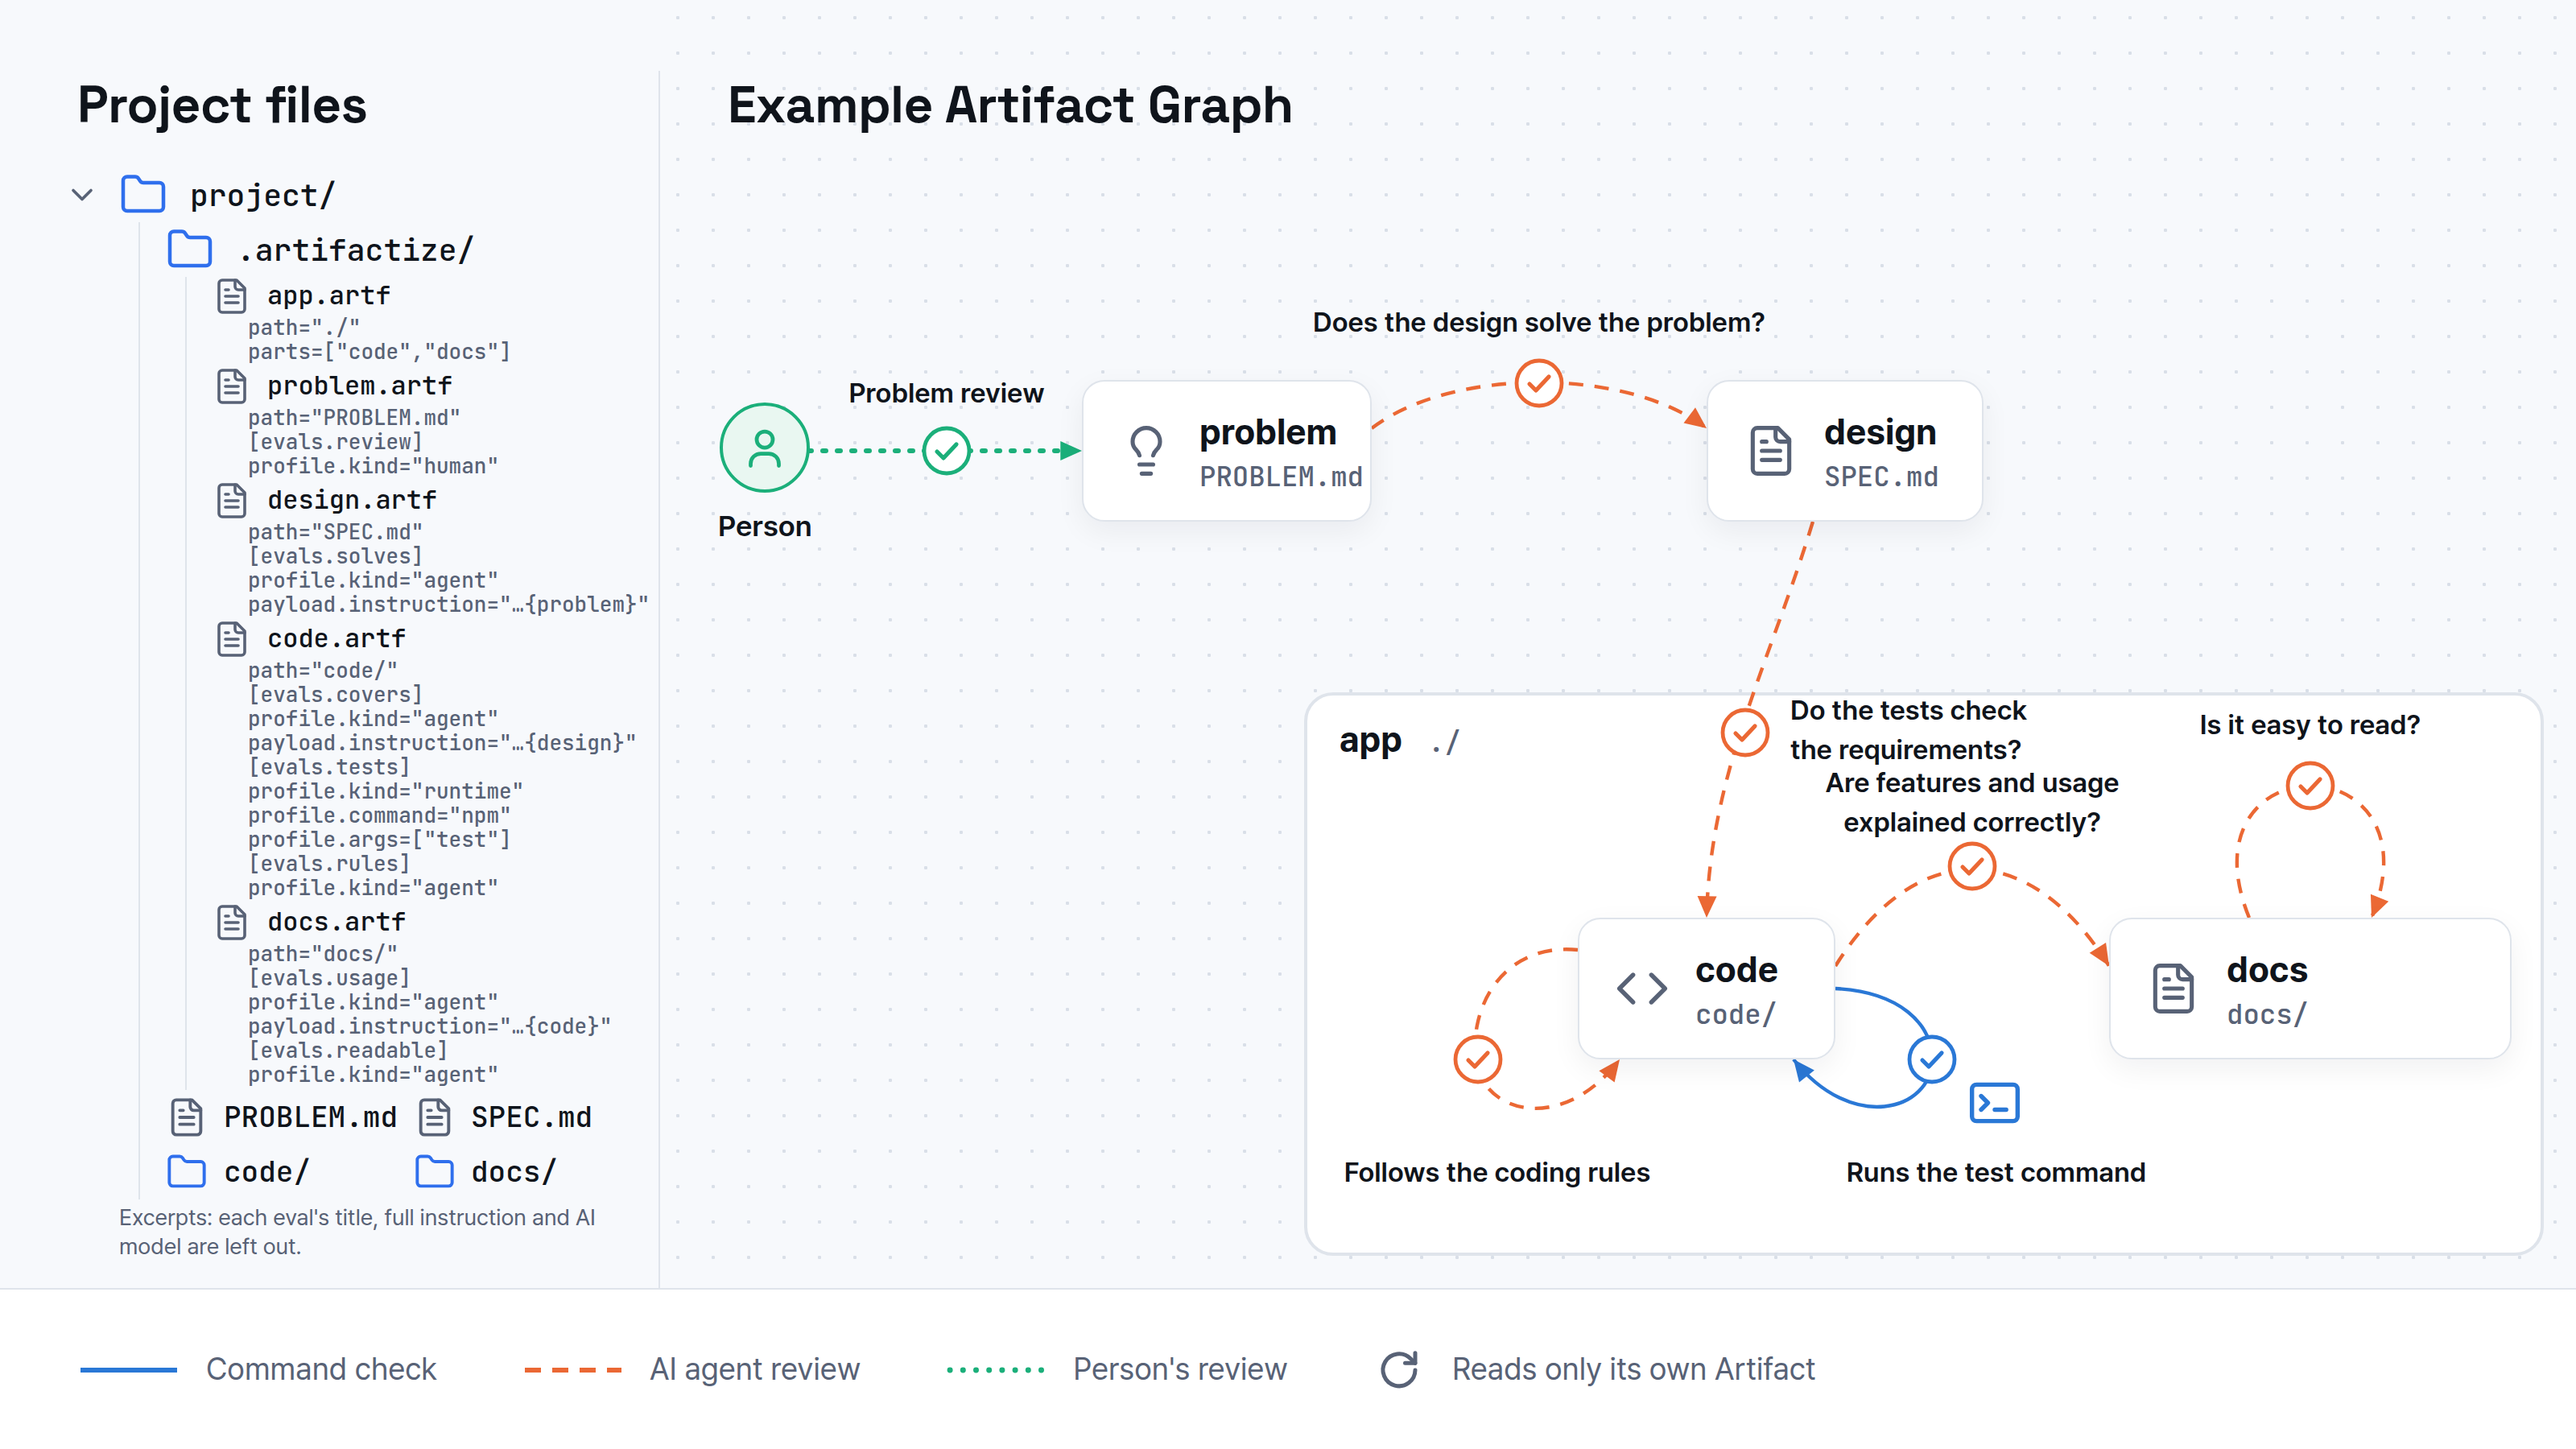
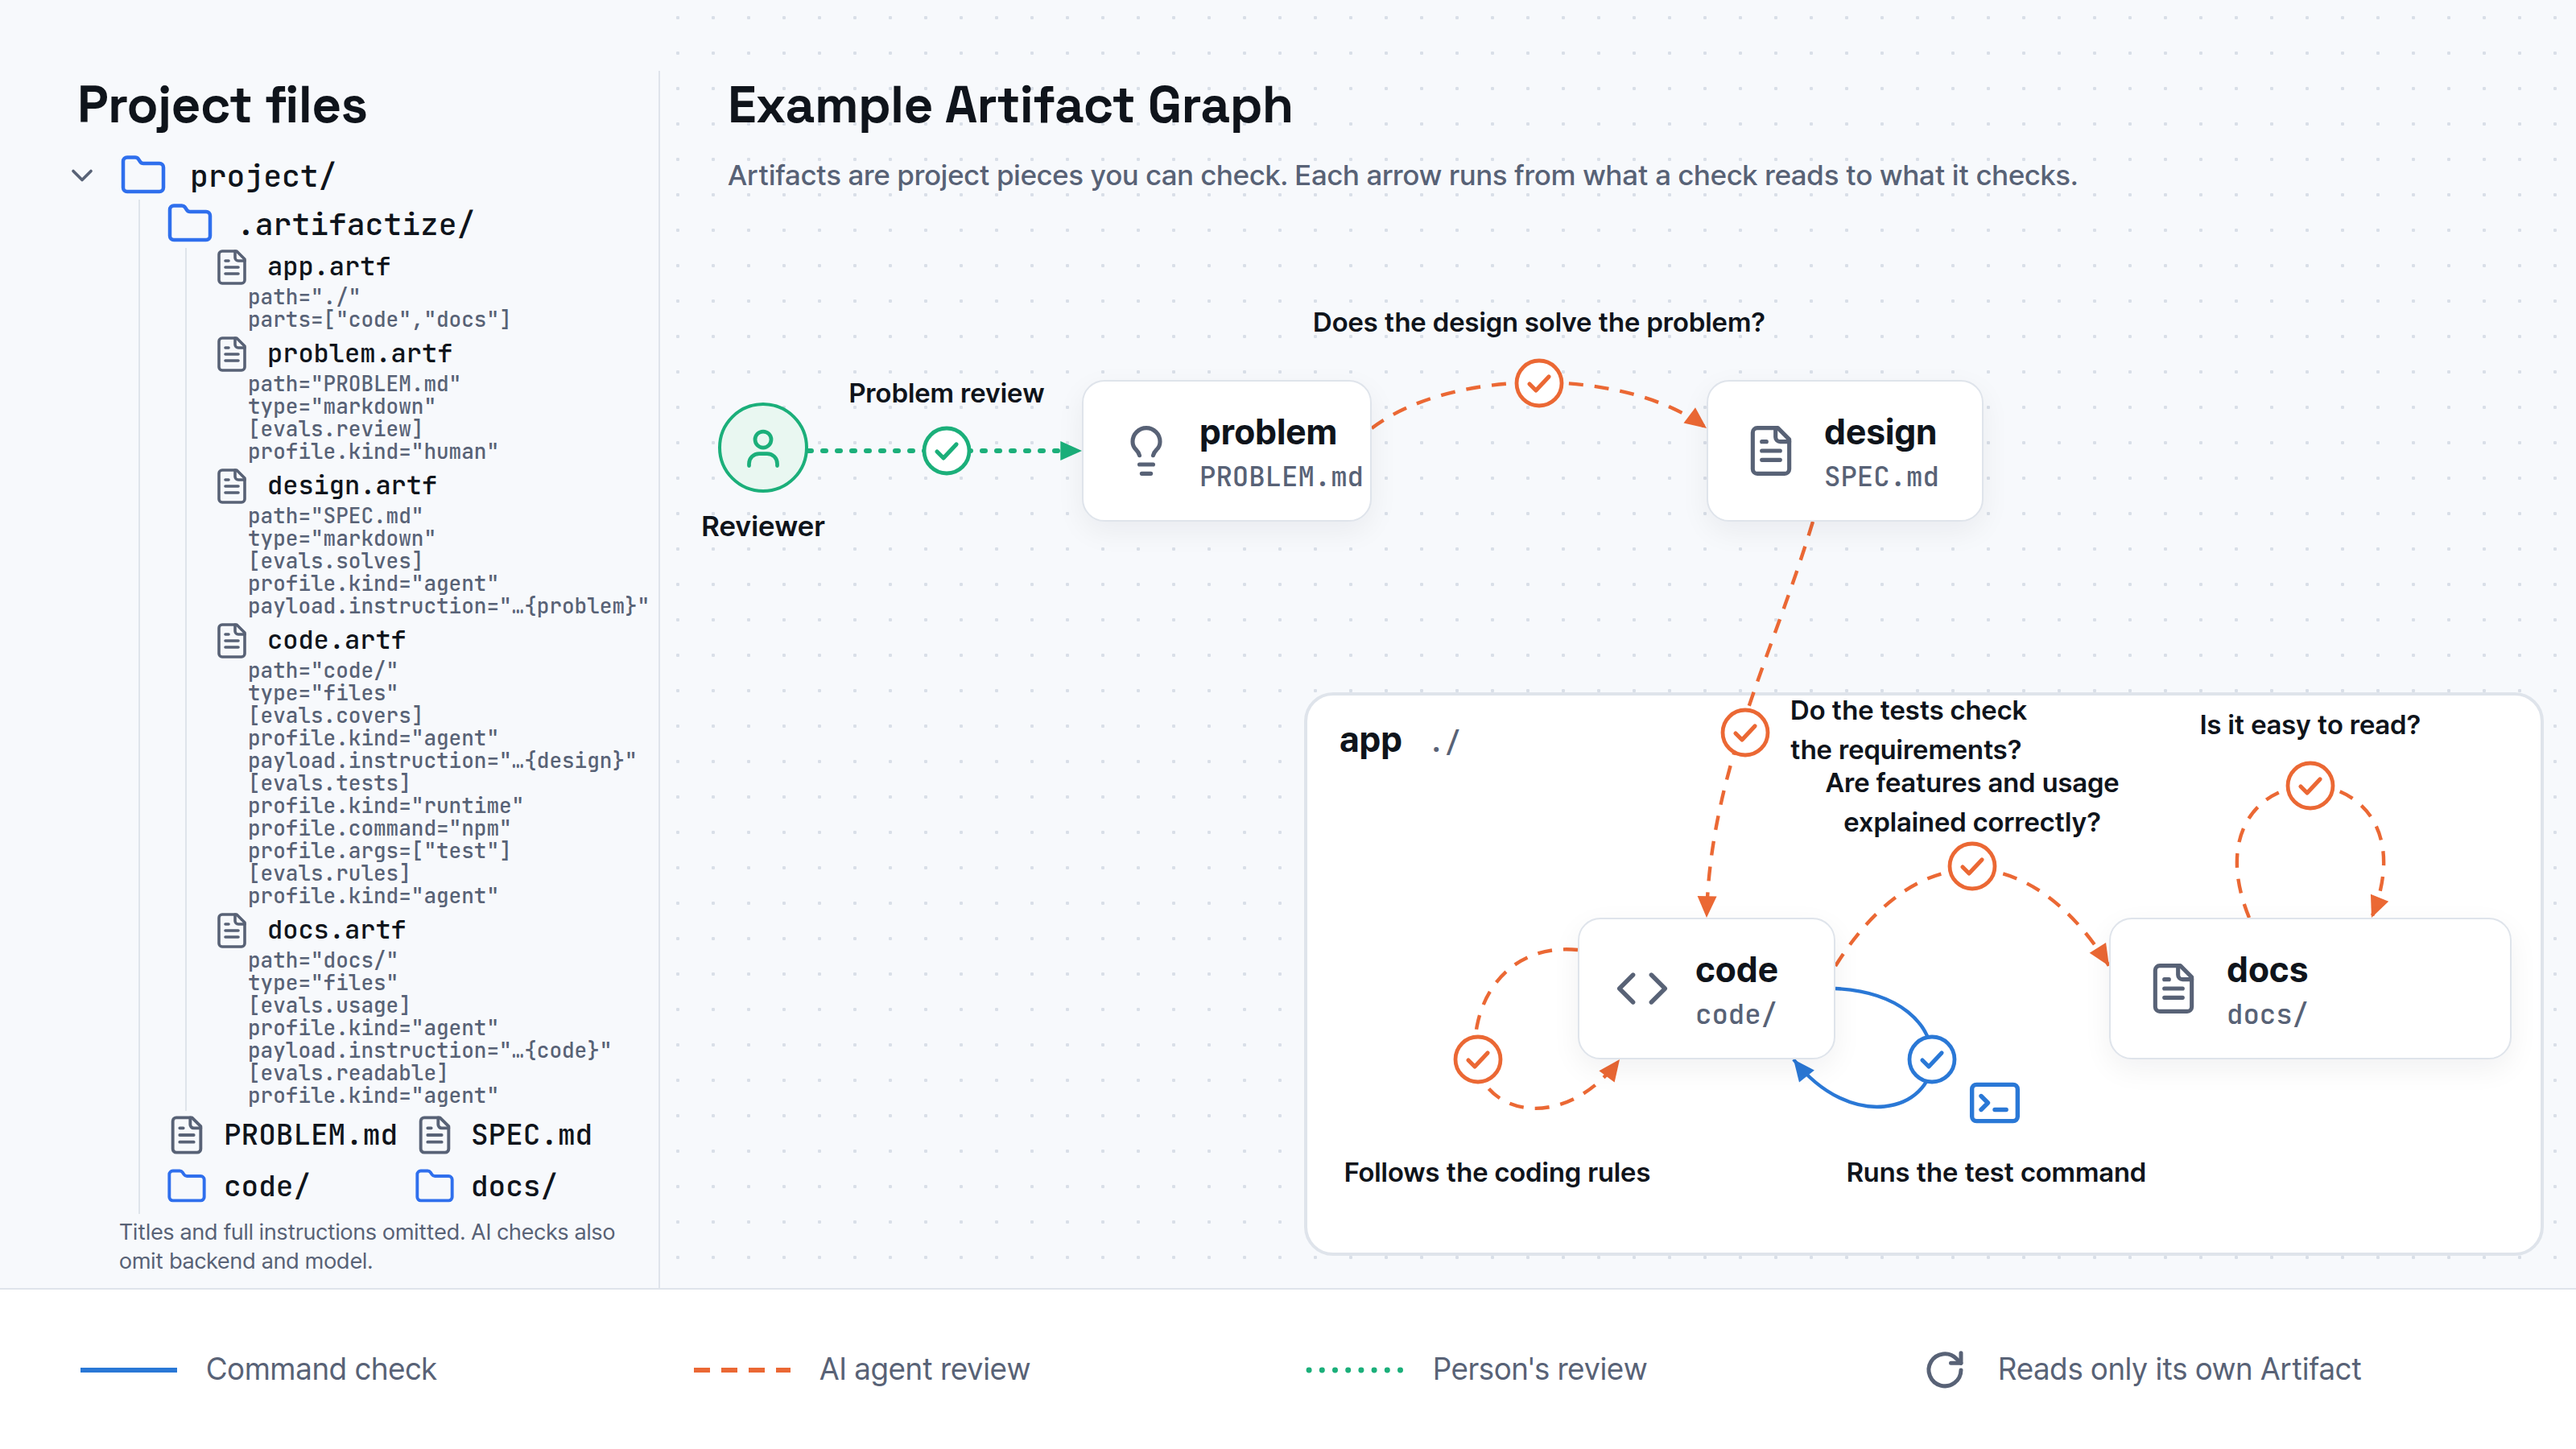
docs(media): update the graph example for typed Artifacts

diff --git a/assets/others/graph-example.html b/assets/others/graph-example.html
@@ -36,7 +36,7 @@
   .figure {
     display: grid;
     grid-template-columns: 410px 1fr;
-    grid-template-rows: 1fr 100px;
+    grid-template-rows: minmax(0, 1fr) 100px;
     width: 1600px;
     height: 900px;
     background: var(--bg);
@@ -67,7 +67,7 @@
     padding: 0;
     list-style: none;
   }
-  .tree > ul { margin-top: 20px; padding-left: 26px; }
+  .tree > ul { margin-top: 10px; padding-left: 26px; }
   .tree ul ul {
     margin-left: 12px;
     padding-left: 16px;
@@ -82,7 +82,7 @@
     display: flex;
     align-items: center;
     gap: 14px;
-    height: 34px;
+    height: 30px;
     font: 500 19px/1 var(--mono);
   }
   .tree li > ul { flex-basis: 100%; }
@@ -94,7 +94,7 @@
   .tree .artf svg { width: 24px; height: 24px; }
   .tree .definition { margin-bottom: 2px; }
   /* Each file's declarations, its checks included: every line is TOML as the file holds it. */
-  .tree .definition code { flex-basis: 100%; margin-left: 22px; color: var(--dim); font: 500 13px/15px var(--mono); white-space: pre; }
+  .tree .definition code { flex-basis: 100%; margin-left: 22px; color: var(--dim); font: 500 13px/14px var(--mono); white-space: pre; }
   .tree svg { width: 30px; height: 30px; flex: none; }
   /* What the listings leave out, under the tree. */
   .tree .excerpt { margin: 2px 16px 0 26px; color: var(--dim); font: 400 14px/18px var(--sans); }
@@ -111,6 +111,7 @@
     background-image: radial-gradient(var(--dot) 1px, transparent 1.2px);
     background-size: 22px 22px;
   }
+  .graph .key { margin: 12px 32px 0 0; color: var(--dim); font: 500 18px/1.4 var(--sans); }
   .graph svg.edges {
     position: absolute;
     inset: 0;
@@ -167,6 +168,7 @@
     flex-direction: column;
     align-items: center;
     gap: 10px;
+    width: 56px;
     color: var(--human);
     font: 600 18px var(--sans);
   }
@@ -180,15 +182,16 @@
     background: var(--person-bg);
   }
   .person svg { width: 30px; height: 30px; }
-  .person span { color: var(--text); }
+  .person span { color: var(--text); white-space: nowrap; }
 
   /* ---------- The legend ---------- */
 
   .legend {
     grid-column: 1 / -1;
-    display: flex;
+    display: grid;
+    grid-template-columns: repeat(4, minmax(0, 1fr));
     align-items: center;
-    gap: 52px;
+    gap: 20px;
     padding: 0 48px;
     border-top: 1px solid var(--line);
     background: var(--panel);
@@ -221,10 +224,10 @@
           <li><span><svg class="folder"><use href="#i-folder"/></svg>.artifactize/</span>
             <ul>
               <li class="definition"><span class="artf"><svg class="file"><use href="#i-file"/></svg>app.artf</span><code>path=&quot;./&quot;</code><code>parts=[&quot;code&quot;,&quot;docs&quot;]</code></li>
-              <li class="definition"><span class="artf"><svg class="file"><use href="#i-file"/></svg>problem.artf</span><code>path=&quot;PROBLEM.md&quot;</code><code>[evals.review]</code><code>profile.kind=&quot;human&quot;</code></li>
-              <li class="definition"><span class="artf"><svg class="file"><use href="#i-file"/></svg>design.artf</span><code>path=&quot;SPEC.md&quot;</code><code>[evals.solves]</code><code>profile.kind=&quot;agent&quot;</code><code>payload.instruction=&quot;…{problem}&quot;</code></li>
-              <li class="definition"><span class="artf"><svg class="file"><use href="#i-file"/></svg>code.artf</span><code>path=&quot;code/&quot;</code><code>[evals.covers]</code><code>profile.kind=&quot;agent&quot;</code><code>payload.instruction=&quot;…{design}&quot;</code><code>[evals.tests]</code><code>profile.kind=&quot;runtime&quot;</code><code>profile.command=&quot;npm&quot;</code><code>profile.args=[&quot;test&quot;]</code><code>[evals.rules]</code><code>profile.kind=&quot;agent&quot;</code></li>
-              <li class="definition"><span class="artf"><svg class="file"><use href="#i-file"/></svg>docs.artf</span><code>path=&quot;docs/&quot;</code><code>[evals.usage]</code><code>profile.kind=&quot;agent&quot;</code><code>payload.instruction=&quot;…{code}&quot;</code><code>[evals.readable]</code><code>profile.kind=&quot;agent&quot;</code></li>
+              <li class="definition"><span class="artf"><svg class="file"><use href="#i-file"/></svg>problem.artf</span><code>path=&quot;PROBLEM.md&quot;</code><code>type=&quot;markdown&quot;</code><code>[evals.review]</code><code>profile.kind=&quot;human&quot;</code></li>
+              <li class="definition"><span class="artf"><svg class="file"><use href="#i-file"/></svg>design.artf</span><code>path=&quot;SPEC.md&quot;</code><code>type=&quot;markdown&quot;</code><code>[evals.solves]</code><code>profile.kind=&quot;agent&quot;</code><code>payload.instruction=&quot;…{problem}&quot;</code></li>
+              <li class="definition"><span class="artf"><svg class="file"><use href="#i-file"/></svg>code.artf</span><code>path=&quot;code/&quot;</code><code>type=&quot;files&quot;</code><code>[evals.covers]</code><code>profile.kind=&quot;agent&quot;</code><code>payload.instruction=&quot;…{design}&quot;</code><code>[evals.tests]</code><code>profile.kind=&quot;runtime&quot;</code><code>profile.command=&quot;npm&quot;</code><code>profile.args=[&quot;test&quot;]</code><code>[evals.rules]</code><code>profile.kind=&quot;agent&quot;</code></li>
+              <li class="definition"><span class="artf"><svg class="file"><use href="#i-file"/></svg>docs.artf</span><code>path=&quot;docs/&quot;</code><code>type=&quot;files&quot;</code><code>[evals.usage]</code><code>profile.kind=&quot;agent&quot;</code><code>payload.instruction=&quot;…{code}&quot;</code><code>[evals.readable]</code><code>profile.kind=&quot;agent&quot;</code></li>
             </ul>
           </li>
           <li class="source"><span><svg class="file"><use href="#i-file"/></svg>PROBLEM.md</span></li><li class="source"><span><svg class="file"><use href="#i-file"/></svg>SPEC.md</span></li>
@@ -237,6 +240,7 @@
 
   <section class="graph">
     <h2 data-t="title"></h2>
+    <p class="key" data-t="key"></p>
 
     <!-- Each check sits on a line from the Artifact it reads to the Artifact it belongs to,
          and the arrow points at the latter; a check that reads only its own Artifact loops
@@ -307,7 +311,8 @@
     en: {
       repository: "Project files",
       title: "Example Artifact Graph",
-      person: "Person",
+      key: "Artifacts are project pieces you can check. Each arrow runs from what a check reads to what it checks.",
+      person: "Reviewer",
       problem: "problem",
       spec: "design",
       code: "code",
@@ -323,12 +328,13 @@
       legendAgent: "AI agent review",
       legendHuman: "Person's review",
       legendSelf: "Reads only its own Artifact",
-      excerpt: "Excerpts: each eval's title, full instruction and AI model are left out.",
+      excerpt: "Titles and full instructions omitted. AI checks also omit backend and model.",
     },
     ko: {
       repository: "프로젝트 파일",
       title: "Artifact Graph 예시",
-      person: "사람",
+      key: "Artifact는 평가할 수 있는 프로젝트의 구성 요소입니다. 화살표는 평가가 읽는 곳에서 평가 대상으로 향합니다.",
+      person: "검토자",
       problem: "problem",
       spec: "design",
       code: "code",
@@ -340,23 +346,24 @@
       readable: "문서의 가독성",
       codingRules: "코드 작성 기준을 지키는가?",
       runsTests: "테스트 명령 실행",
-      legendRuntime: "명령 평가",
+      legendRuntime: "명령으로 확인",
       legendAgent: "AI 에이전트 검토",
-      legendHuman: "사람 검토",
+      legendHuman: "사람이 검토",
       legendSelf: "자기 Artifact만 읽는 평가",
-      excerpt: "발췌: 평가마다 title, instruction 전문, AI 모델은 생략했습니다.",
+      excerpt: "발췌에서 평가 제목과 지시 전문을 뺐습니다. AI 평가에서는 백엔드와 모델도 뺐습니다.",
     },
     zh: {
       repository: "项目文件",
       title: "Artifact Graph 示例",
-      person: "人",
+      key: "Artifact 是项目中可检查的部分。箭头从检查读取的内容指向检查的对象。",
+      person: "审查者",
       problem: "problem",
       spec: "design",
       code: "code",
       docs: "docs",
       reviewProblem: "审查问题定义",
       solvesProblem: "设计是否解决了问题？",
-      testsRequirements: "测试是否验证了需求？",
+      testsRequirements: "测试是否验证了\n需求？",
       explainsUsage: "是否准确说明了\n功能和用法？",
       readable: "文档的可读性",
       codingRules: "是否遵守编码规范？",
@@ -365,7 +372,7 @@
       legendAgent: "AI 智能体审查",
       legendHuman: "人工审查",
       legendSelf: "只读取自身 Artifact 的评估",
-      excerpt: "节选：省略了每个评估的 title、完整 instruction 和 AI 模型。",
+      excerpt: "节选省略了每项检查的标题和完整指令。AI 检查也省略了后端和模型。",
     },
   };
 
